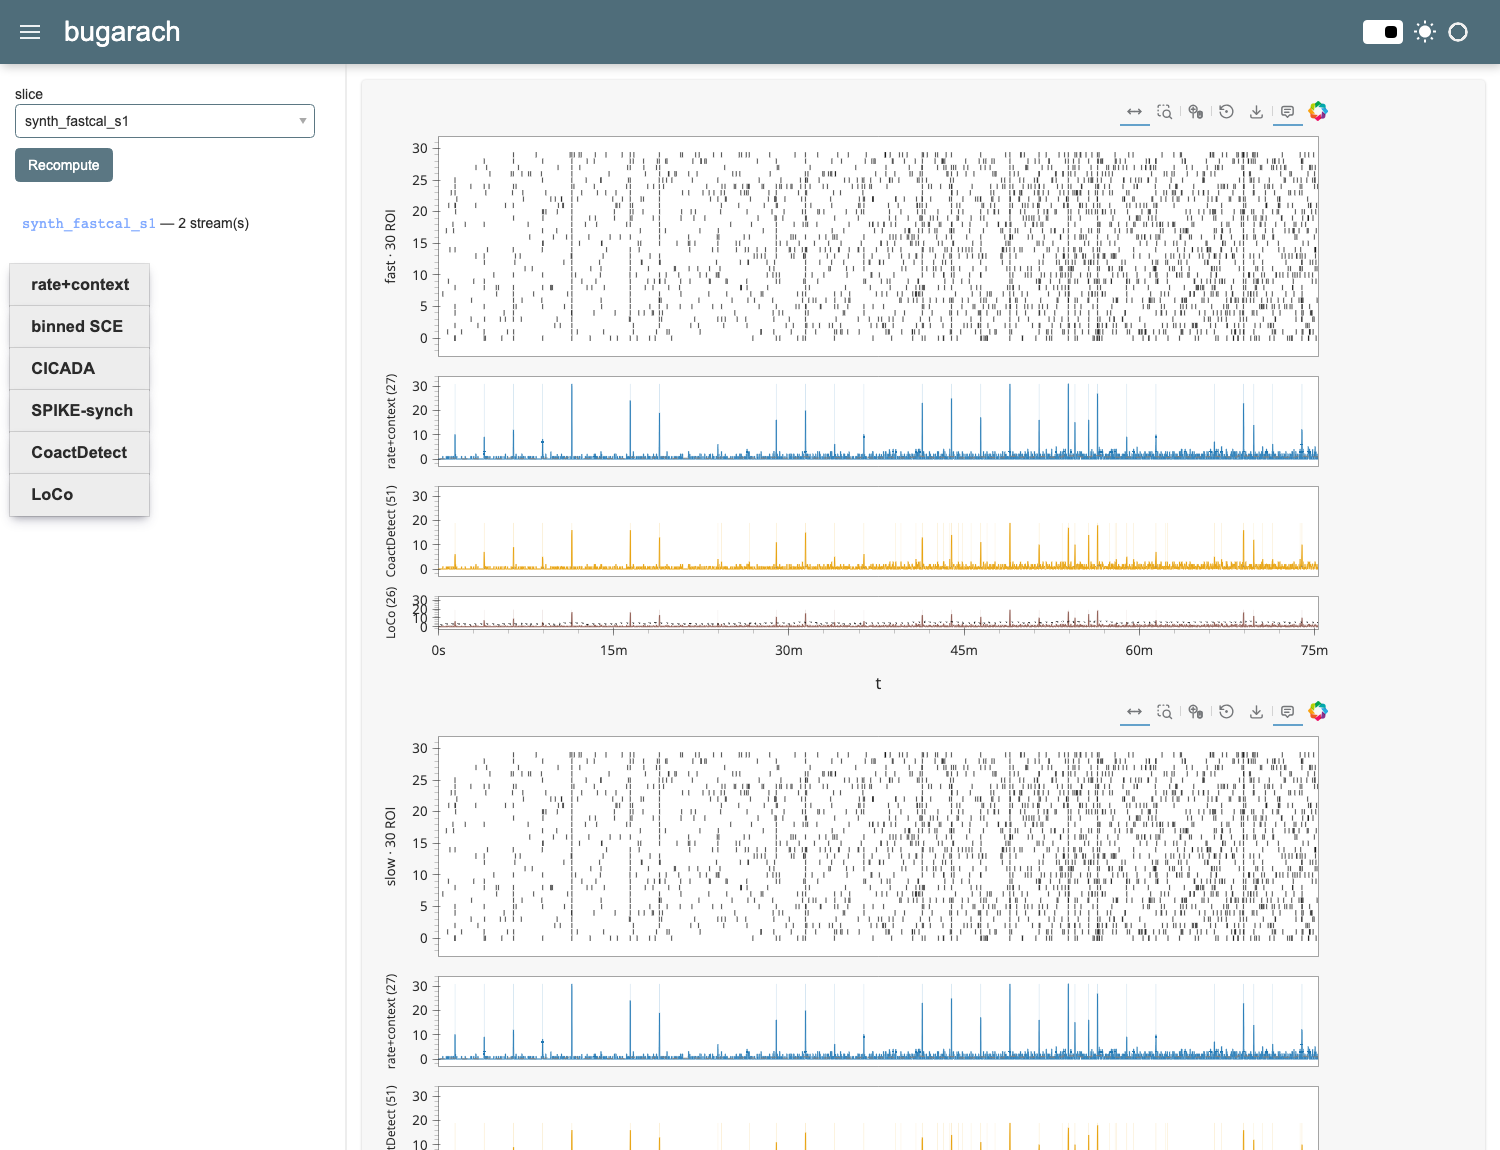
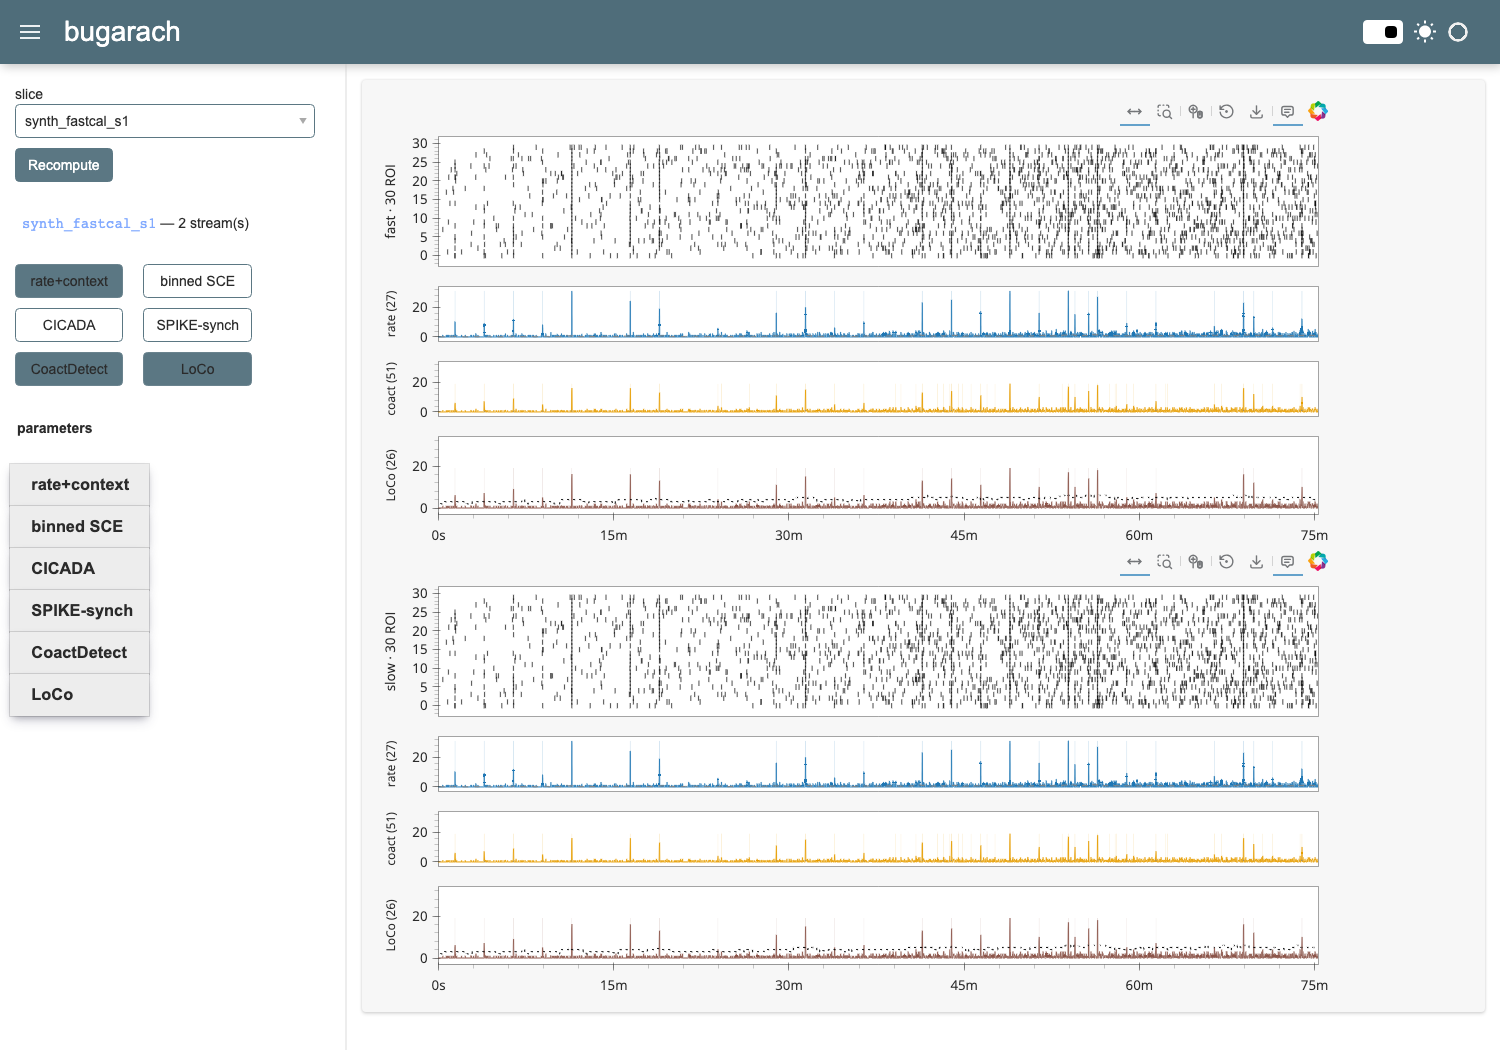
Viewer TLC: unlinked y-scales, uniform rows, dense layout, big toggles
From screenshot review:
- Signal rows get a UNIQUE value dimension per detector so y-ranges no
  longer link across rows (a 0-1 synchrony trace was being crushed flat
  against the ROI-count scale).
- The bottom row of each group gets +45px so its plot area matches the
  other rows instead of paying for the x-axis (LoCo looked half-size).
- Wheel zoom is in the toolbar but not active — the mouse wheel scrolls
  the page again; drag pans.
- Detector enable controls are full-width toggle buttons in a 2-col
  grid above the parameter accordion (checkboxes were tiny targets).
- Denser layout (raster 150px, rows 75px, short row labels, no x-axis
  title): both streams of a 3-detector view fit one laptop viewport.
- README screenshot regenerated.

diff --git a/src/bugarach/ui/app.py b/src/bugarach/ui/app.py
@@ -74,6 +74,9 @@ TITLES = {
     "rate": "rate+context", "sce": "binned SCE", "cicada": "CICADA",
     "sync": "SPIKE-synch", "coact": "CoactDetect", "loco": "LoCo",
 }
+# short row labels — the full titles overflow the slim signal rows
+SHORT = {"rate": "rate", "sce": "SCE", "cicada": "CIC",
+         "sync": "sync", "coact": "coact", "loco": "LoCo"}
 DEFAULT_ON = ["rate", "coact", "loco"]
 
 # widget spec: (param, label, default, (lo, hi), step)
@@ -187,14 +190,16 @@ def _raster(stream, name: str, ext) -> hv.Scatter:
         ys.append(np.full(v.size, i))
     t = np.concatenate(ts) if ts else np.empty(0)
     y = np.concatenate(ys) if ys else np.empty(0)
-    # no title — vertical space is precious; the y-label carries identity
+    # no title — vertical space is precious; the y-label carries identity.
+    # wheel zoom stays in the toolbar but NOT active, so the mouse wheel
+    # scrolls the page; drag pans, toolbar toggles zoom when wanted
     return hv.Scatter((t, y), kdims=["t"], vdims=["roi"]).opts(
         marker="dash", angle=90, size=5, color="black", alpha=0.7,
-        width=950, height=240, xlim=ext, title="",
+        width=950, height=150, xlim=ext, title="",
         ylabel=f"{name} · {stream.n_rois} ROI",
         fontsize={"ylabel": "10pt"},
         tools=["xwheel_zoom", "xpan", "reset", "hover"],
-        active_tools=["xwheel_zoom", "xpan"], default_tools=["reset"],
+        active_tools=["xpan"], default_tools=["reset"],
         hooks=[_time_axis_hook],
     )
 
@@ -203,8 +208,12 @@ def _signal_row(det, t, y, events, extra, ext) -> hv.Overlay:
     color = COLORS[det]
     onsets, widths = events
     # curve FIRST: the overlay inherits its 't' dimension, keeping every row
-    # on the same axis as the rasters (Rectangles would impose 'x0')
-    items = [hv.Curve((t, y), kdims=["t"]).opts(color=color, line_width=1)]
+    # on the same axis as the rasters (Rectangles would impose 'x0').
+    # the value dimension is UNIQUE per detector so y-ranges do NOT link
+    # across rows (a 0-1 synchrony trace must not share the ROI-count scale)
+    ydim = hv.Dimension(f"{det}_y", label=TITLES[det])
+    items = [hv.Curve((t, y), kdims=["t"], vdims=[ydim]).opts(
+        color=color, line_width=1)]
     if onsets is not None and np.size(onsets):
         w = np.where(np.isfinite(widths) & (widths > 0), widths, 0.5)
         finite_y = y[np.isfinite(y)]
@@ -214,7 +223,7 @@ def _signal_row(det, t, y, events, extra, ext) -> hv.Overlay:
             color=color, alpha=0.25, line_alpha=0))
     ref = extra.get("ref")
     if ref is not None and np.size(ref) == np.size(t):
-        items.append(hv.Curve((t, ref), kdims=["t"]).opts(
+        items.append(hv.Curve((t, ref), kdims=["t"], vdims=[ydim]).opts(
             color="gray", line_width=1, line_dash="dashed"))
     thr = extra.get("threshold")
     if thr is not None:
@@ -222,15 +231,17 @@ def _signal_row(det, t, y, events, extra, ext) -> hv.Overlay:
             items.append(hv.HLine(float(thr)).opts(
                 color=color, line_dash="dotted", line_width=1))
         elif np.size(thr) == np.size(t):
-            items.append(hv.Curve((t, thr), kdims=["t"]).opts(
+            items.append(hv.Curve((t, thr), kdims=["t"], vdims=[ydim]).opts(
                 color="black", line_width=1, line_dash="dotted"))
     n_ev = int(np.size(onsets)) if onsets is not None else 0
     # identity + event count live on the y-label; titles are redundant rows
     return hv.Overlay(items).opts(
-        width=950, height=110, xlim=ext, xlabel="t", title="",
-        ylabel=f"{TITLES[det]} ({n_ev})", yticks=3,
+        width=950, height=75, xlim=ext, xlabel="", title="",
+        ylabel=f"{SHORT[det]} ({n_ev})", yticks=2,
         fontsize={"ylabel": "9pt"},
         show_legend=False, hooks=[_time_axis_hook],
+        tools=["xwheel_zoom", "xpan", "reset"],
+        active_tools=["xpan"], default_tools=["reset"],
     )
 
 
@@ -241,7 +252,11 @@ def build_viewer(slices: dict[str, Slice], *, title: str = "bugarach"):
         raise ValueError("no slices to view")
 
     slice_sel = pn.widgets.Select(name="slice", options=list(slices))
-    det_checks = {d: pn.widgets.Checkbox(name=TITLES[d], value=d in DEFAULT_ON)
+    # Toggle buttons, not checkboxes — a full-size click target
+    det_checks = {d: pn.widgets.Toggle(name=TITLES[d], value=d in DEFAULT_ON,
+                                       button_type="primary",
+                                       button_style="outline",
+                                       sizing_mode="stretch_width")
                   for d in PARAM_SPECS}
     widgets: dict[str, dict[str, pn.widgets.Widget]] = {}
     accordion_items = []
@@ -257,8 +272,9 @@ def build_viewer(slices: dict[str, Slice], *, title: str = "bugarach"):
                                           start=lo, end=hi, step=step)
             ws[pname] = w
         widgets[det] = ws
-        accordion_items.append(
-            (TITLES[det], pn.Column(det_checks[det], *ws.values())))
+        accordion_items.append((TITLES[det], pn.Column(*ws.values())))
+    # enable toggles live OUTSIDE the accordion, always visible, big targets
+    toggle_grid = pn.GridBox(*det_checks.values(), ncols=2)
 
     go = pn.widgets.Button(name="Recompute", button_type="primary")
     status = pn.pane.Markdown("")
@@ -286,10 +302,18 @@ def build_viewer(slices: dict[str, Slice], *, title: str = "bugarach"):
                     if np.size(t):
                         rows.append(_signal_row(det, t, y, events, extra, ext))
             # one x-axis per group: only the bottom row shows it (zoom/pan
-            # stays linked through the shared 't' dimension)
-            rows = [r.opts(xaxis=None) if i < len(rows) - 1 else r
-                    for i, r in enumerate(rows)]
-            layout = hv.Layout(rows).cols(1).opts(shared_axes=True)
+            # stays linked through the shared 't' dimension). The bottom row
+            # gets extra height so its PLOT area matches the others — the
+            # axis+label live in the extra 45px, not carved out of the plot
+            last = len(rows) - 1
+            styled = []
+            for i, r in enumerate(rows):
+                if i < last:
+                    styled.append(r.opts(xaxis=None))
+                else:
+                    base_h = 150 if i == 0 else 75   # raster may be last
+                    styled.append(r.opts(height=base_h + 45))
+            layout = hv.Layout(styled).cols(1).opts(shared_axes=True)
             blocks.append(pn.pane.HoloViews(layout))
         main.objects = blocks
         status.object = f"`{s.slice_id}` — {len(s.streams)} stream(s)"
@@ -299,7 +323,8 @@ def build_viewer(slices: dict[str, Slice], *, title: str = "bugarach"):
     render()
 
     sidebar = pn.Column(
-        slice_sel, go, status,
+        slice_sel, go, status, toggle_grid,
+        pn.pane.Markdown("**parameters**", margin=(6, 0, 0, 5)),
         pn.Accordion(*accordion_items, active=[]),
         width=340,
     )
